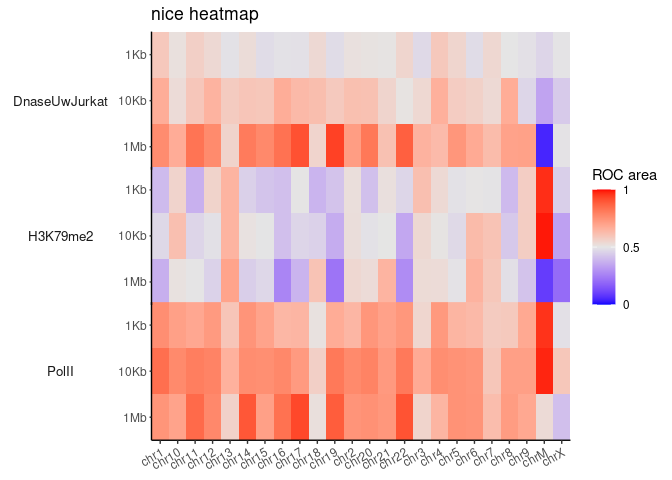
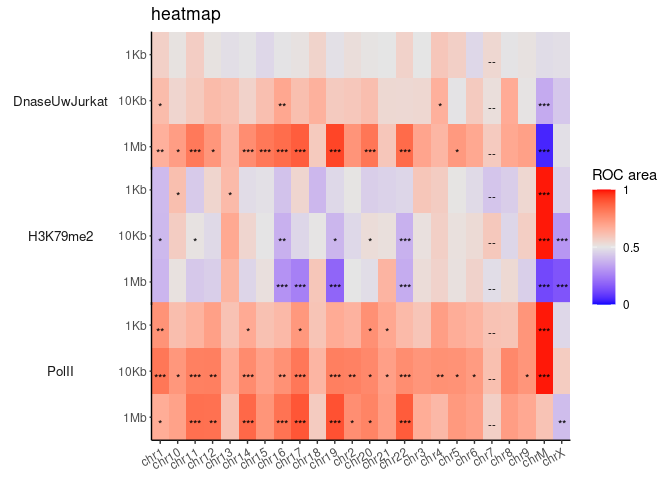
added code for starts agains the 7 column, need to add to random and to be able to select the column

diff --git a/README.md b/README.md
@@ -31,7 +31,8 @@ library(GenomeInfoDb)
 intsite_to_heatmap_df(sample_intSites) %>%
   epi_annotate_df2() %>%
   make_roc() %>%
-  make_heatmap(title='nice heatmap')
+  make_heatmap(title='nice heatmap') %>% 
+  plot_heatmap()
 ```
 
 <img src="man/figures/README-example-1.png" width="100%" />
